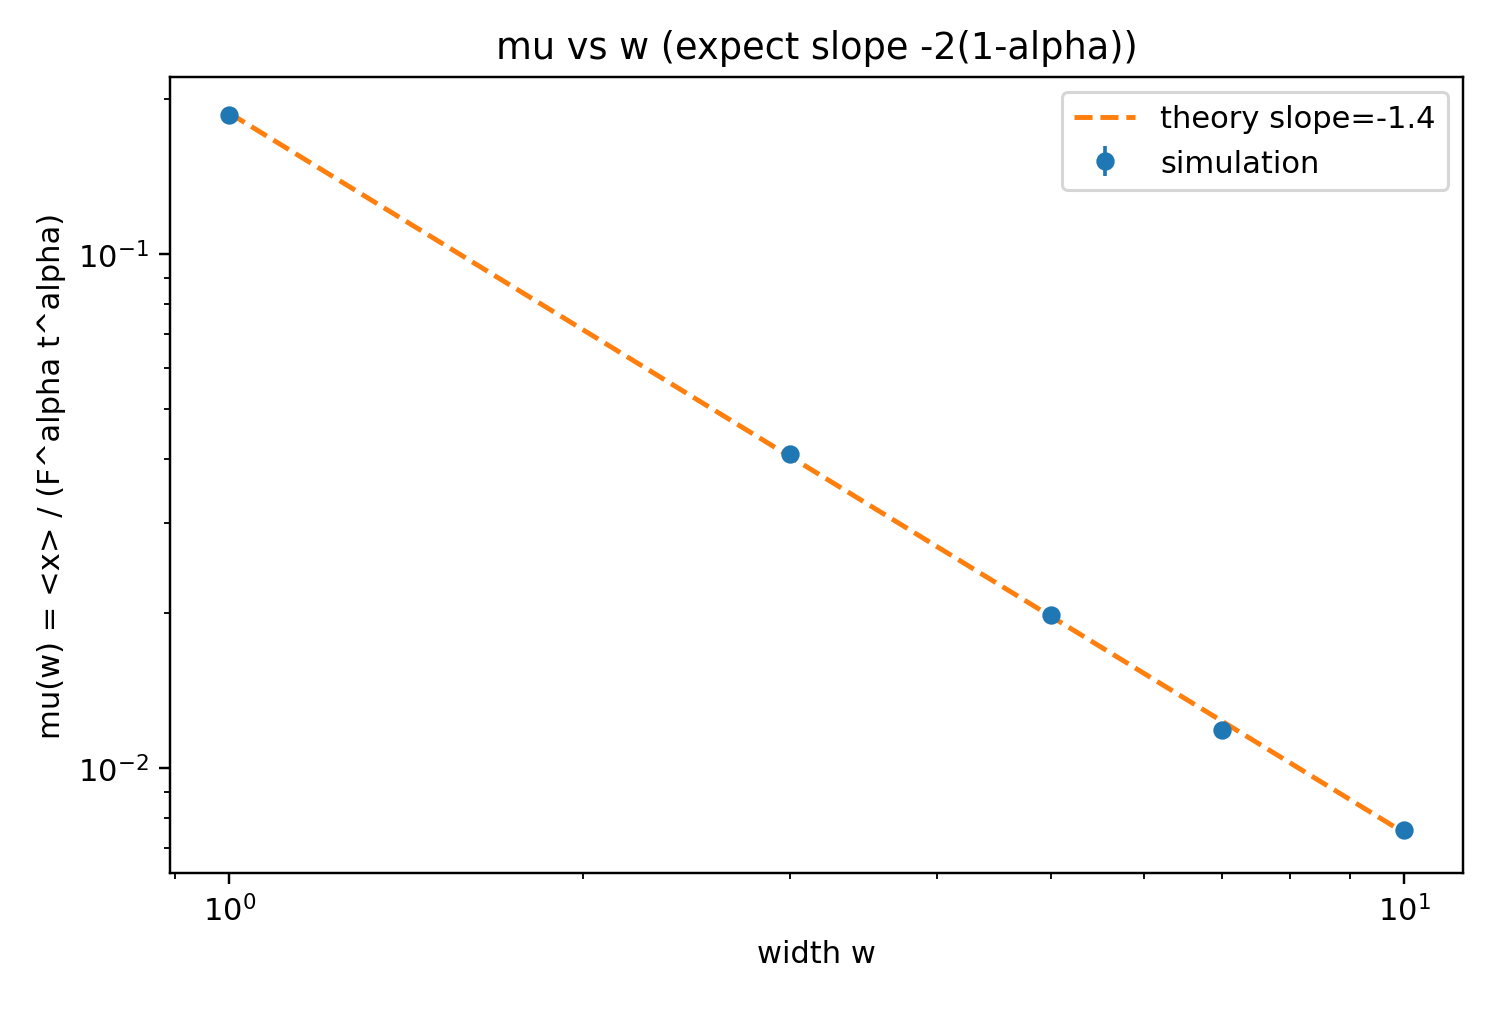
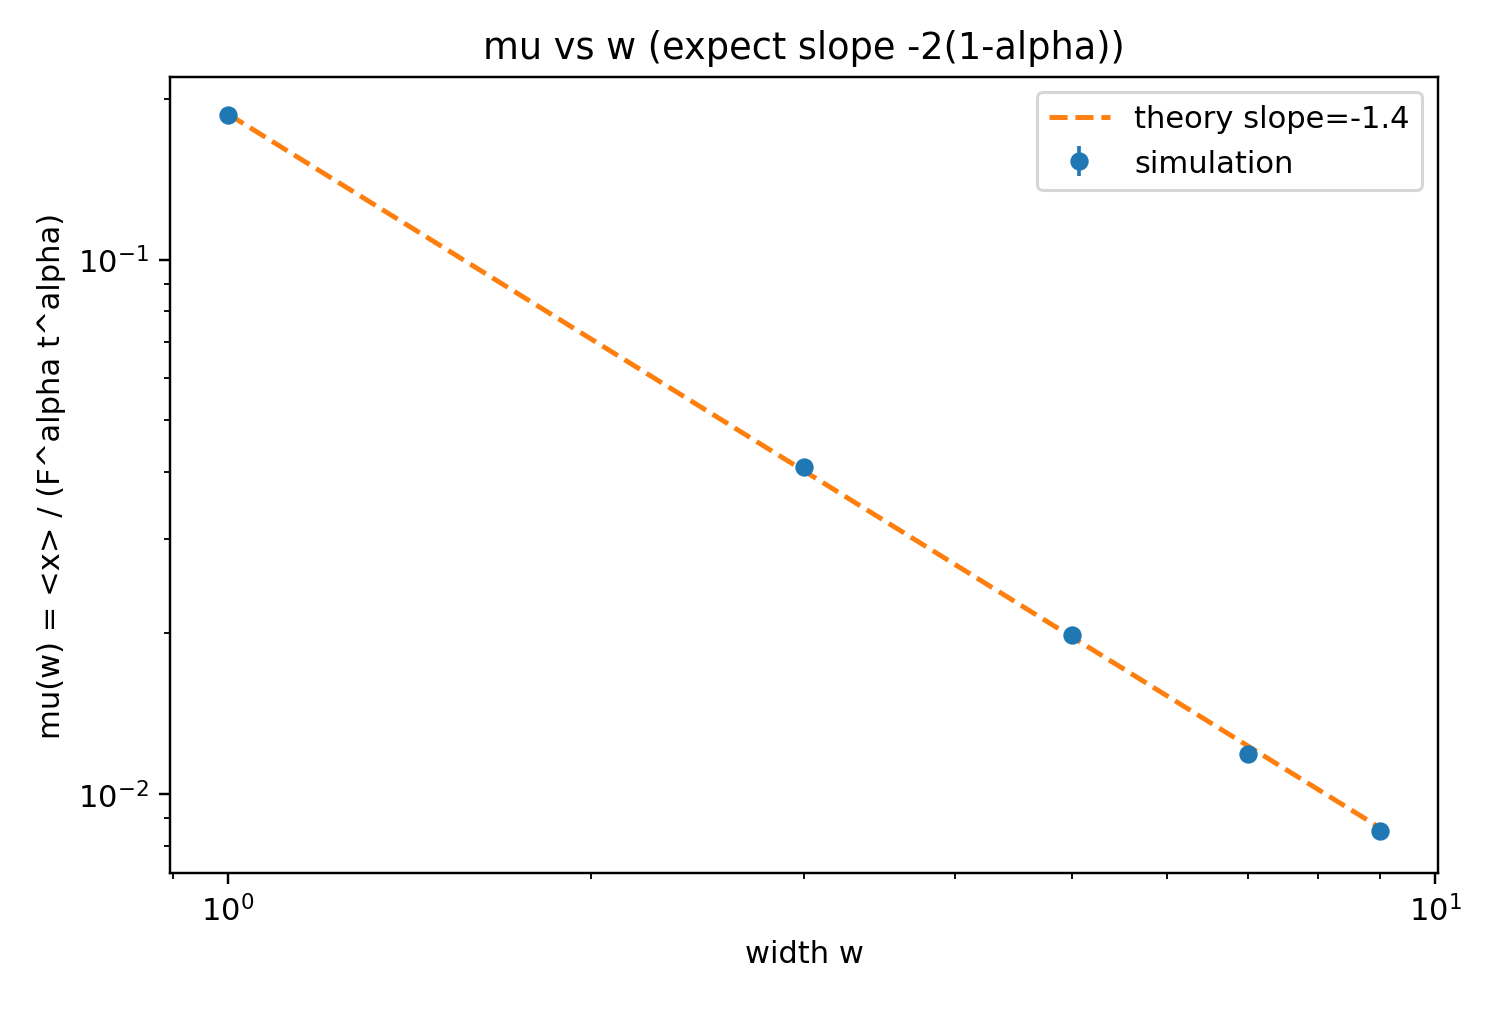
muVSw

diff --git a/full_sim_wsalpha.cpp b/full_sim_wsalpha.cpp
@@ -12,7 +12,7 @@ struct SimConfig {
     double t_max = 1e17;
     double alpha = 0.3;                 // S_alpha
     double F_input = 0.01;              // nominal force
-    vector<int> Ws = {1,3,5,7,10};           // widths to test
+    vector<int> Ws = {1,3,5,7,9};           // widths to test
     bool use_effective_drift = true;    // use F_eff on x only
     double kappa_alpha = 1.0;           // κ_α amplitude factor (start with 1)
     double c_small_force = 0.02;        // enforce F <= c/w^2
